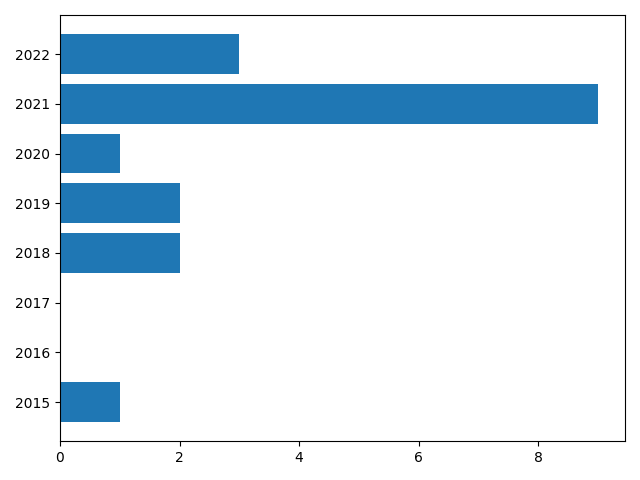
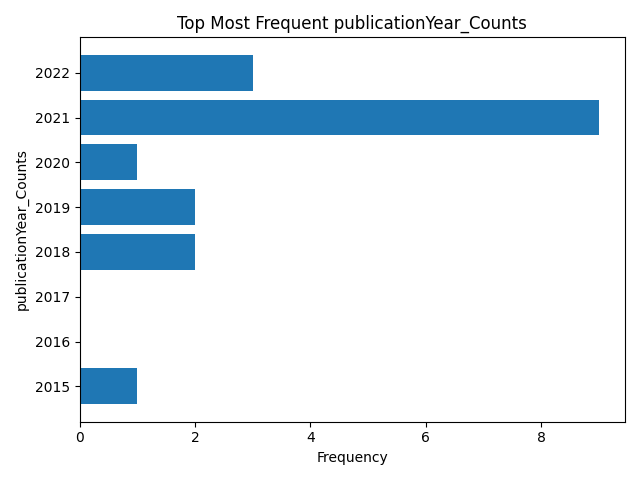
fixing main

diff --git a/spacy_on_corpus.py b/spacy_on_corpus.py
@@ -251,13 +251,13 @@ def get_basic_statistics(corpus):
     ##sort pub years from smallest-largest
     sorted_pub_years = sorted(publication_years, key=lambda x:x[0])
     # print the publication year range of the corpus
-    print(f'Publication year range: {sorted_pub_years[0][0]}-{sorted_pub_years[(len(sorted_pub_years)-1)][0]}\n')
+    ##print(f'Publication year range: {sorted_pub_years[0][0]}-{sorted_pub_years[-1][0]}\n')
     # get the page count table
     pgCounts = get_metadata_counts(corpus, 'pageCount')
     ## sort pgcount table
     sorted_pgCounts = sorted(pgCounts, key=lambda x:x[0])
     # print the page count range of the corpus
-    print(f'Page count range: {sorted_pgCounts[0][0]}-{sorted_pgCounts[(len(sorted_pgCounts)-1)][0]}\n')
+    ##print(f'Page count range: {sorted_pgCounts[0][0]}-{sorted_pgCounts[-1][0]}\n')
 
 
 def plot_word_entity_frequencies(corpus, k=25):
@@ -272,9 +272,9 @@ def plot_word_entity_frequencies(corpus, k=25):
     reduced_token_counts = reduce_to_top_k(token_counts, k)
     # make a bar chart for them
     plt.barh([x[0] for x in reduced_token_counts], [x[1] for x in reduced_token_counts])
-    #plt.xlabel('Frequency')
-    #plt.ylabel('Tokens')
-    #plt.title(f'Top {k} Most Frequent Tokens')
+    plt.xlabel('Frequency')
+    plt.ylabel('Tokens')
+    plt.title(f'Top {k} Most Frequent Tokens')
     plt.tight_layout()
     plt.savefig("token_counts.png")
     plt.clf()
@@ -285,12 +285,13 @@ def plot_word_entity_frequencies(corpus, k=25):
     reduced_entity_counts = reduce_to_top_k(entity_counts, k)
     # make a bar chart for them
     plt.barh([x[0] for x in reduced_entity_counts], [x[1] for x in reduced_entity_counts])
-    #plt.xlabel('Frequency')
-    #plt.ylabel('Entities')
-    #plt.title(f'Top {k} Most Frequent Entities')
+    plt.xlabel('Frequency')
+    plt.ylabel('Entities')
+    plt.title(f'Top {k} Most Frequent Entities')
     plt.tight_layout()
     plt.savefig("entity_counts.png")
     plt.clf()   
+
 
 def plot_metadata_frequencies(corpus, key):
     """Makes bar charts for the frequencies of values of a metadata key in a corpus.
@@ -301,22 +302,26 @@ def plot_metadata_frequencies(corpus, key):
     :type key: str
     """
     # get the metadata key table (instead of None)
-
+    metadata_counts = get_metadata_counts(corpus, key)
     # make a bar chart for them
     plt.barh([x[0] for x in metadata_counts], [x[1] for x in metadata_counts])
+    plt.xlabel('Frequency')
+    plt.ylabel(f'{key}_Counts')
+    plt.title(f"Top Most Frequent {key}_Counts")
     plt.tight_layout()
     plt.savefig(key + "_counts.png")
     plt.clf()  
 
 def plot_word_cloud(corpus):
     # get the token frequency table (instead of None)
-    token_counts = None
+    token_counts = get_token_counts(corpus, tags_to_exclude=['leaveMainTags'])
     # make the word cloud
     wc = wordcloud.WordCloud(width=800, height=400, max_words=200).generate_from_frequencies(dict(token_counts))
     # plot the word cloud
     plt.figure(figsize=(10, 10))
     plt.imshow(wc, interpolation='bilinear')
     plt.axis('off')
+    plt.title('Top Word WordCloud')
     plt.savefig('token_wordcloud.png')
     plt.clf()
 
@@ -327,25 +332,39 @@ def main():
       Then, we let the user choose whether they want corpus statistics, plots of corpus wordcounts, or a wordcloud for the corpus.
     """
     # ask the user to input a zip file, jsonl file or pattern
-
+    pattern = input('Input a zip file, jsonl file, or pattern: ')
     print(f'Loading %s, this may take awhile!' % pattern)
     # build the corpus from the pattern (instead of None)
-    corpus = None
+    corpus = build_corpus(pattern)
+    print(corpus)
     # keep going til the user quits with Ctrl-C
     while True:
             # set the goal to something that doesn't exist
         goal = ''
         # until the goal is 'statistics', 'wordcount' or 'wordcloud'
-
-            # ask the user for a value for 'goal' from 'statistics', 'wordcount' or 'wordcloud'
-
+        while goal not in ('statistics', 'wordcount', 'wordcloud', 'metadatafreq'):
+            # ask the user for a value for 'goal' from 'statistics', 'wordcount', 'metadatafreq' or 'wordcloud'
+            goal = input("set your goal['statistics', 'wordcount', 'wordcloud', 'metadatafreq']").lower()
+            print(f'You want to get: {goal}')
             # if the goal is 'statistics'
+            if goal == 'statistics':
                 # get basic corpus statistics
+                get_basic_statistics(corpus)
             # else if the goal is 'wordcount'
+            elif goal == 'wordcount':
                 # plot word and entity counts
+                plot_word_entity_frequencies(corpus)
+            ##else if the goal is 'metadataFreq'
+            elif goal == 'metadatafreq':
+                #ask for meta_data_key
+                key = input("Which metadata frequency do you seek?['publicationYear', 'pageCount']:")
+                #plot metadatafreq
+                plot_metadata_frequencies(corpus, key)
+            ##
             # else if the goal is 'wordcloud'
+            elif goal == 'wordcloud':
                 # make a wordcloud
-
+                plot_word_cloud(corpus)
 
 # this says, if executing this on the command line like python spacy-on-corpus.py, run main()    
 if __name__ == "__main__":
